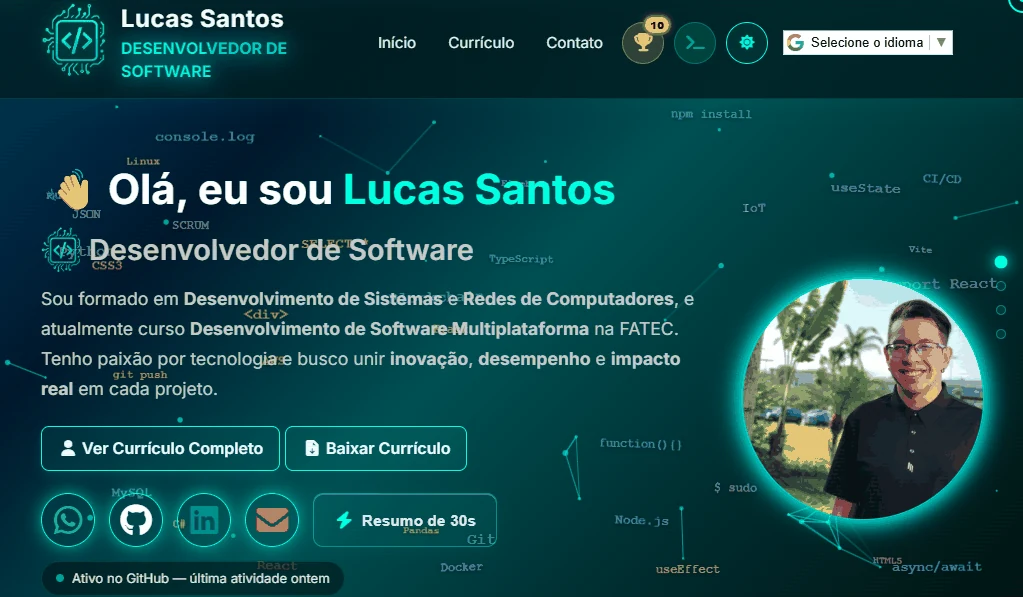
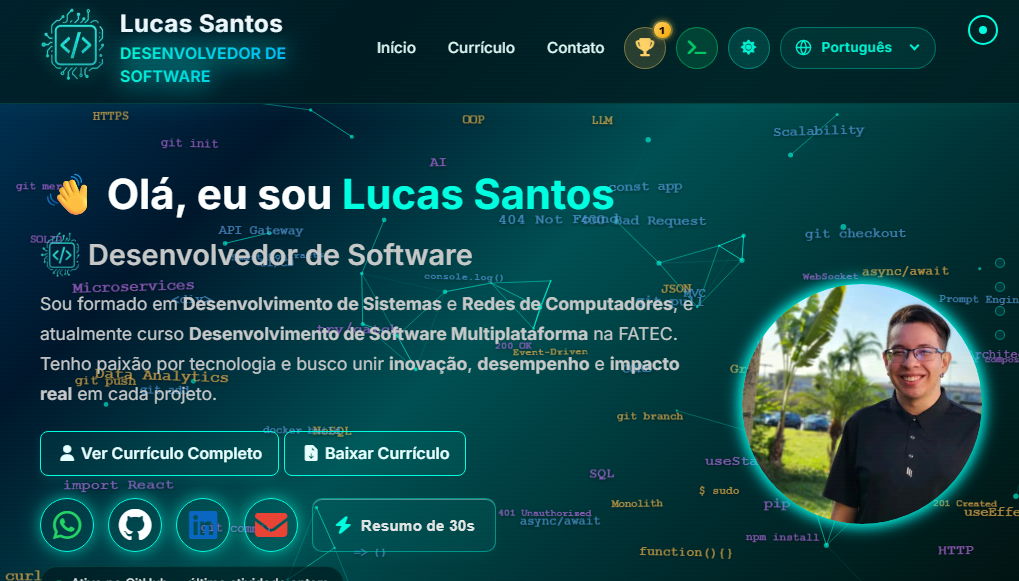
docs: atualização da documentação e adição de tecnologias

diff --git a/src/data/skills.ts b/src/data/skills.ts
@@ -192,6 +192,12 @@ export const skillCategories: SkillCategory[] = [
         logoColor: "white",
       },
       {
+        alt: "Gitleaks",
+        color: "181717",
+        logo: "gitleaks",
+        logoColor: "white",
+      },
+      {
         alt: "GitHub Actions",
         color: "2088FF",
         logo: "githubactions",
@@ -204,6 +210,20 @@ export const skillCategories: SkillCategory[] = [
         logoColor: "white",
       },
       { alt: "CodeQL", color: "181717", logo: "codeql", logoColor: "white" },
+      { alt: "zizmor", color: "181717", logo: "zizmor", logoColor: "white" },
+      {
+        alt: "OSV-Scanner",
+        color: "4285F4",
+        logo: "osv-scanner",
+        logoColor: "white",
+      },
+
+      {
+        alt: "OpenSSF Scorecard",
+        color: "1F6FEB",
+        logo: "openssf",
+        logoColor: "white",
+      },
     ],
   },
 
@@ -234,6 +254,7 @@ export const skillCategories: SkillCategory[] = [
         logo: "lighthouse",
         logoColor: "white",
       },
+      { alt: "Sonda", color: "7C3AED", logo: "sonda", logoColor: "white" },
     ],
   },
 
@@ -272,6 +293,33 @@ export const skillCategories: SkillCategory[] = [
         logoColor: "white",
       },
       { alt: "Fakeredis", color: "DC382D", logo: "redis", logoColor: "white" },
+      { alt: "Vitest", color: "6E9F18", logo: "vitest", logoColor: "white" },
+      {
+        alt: "Stylelint",
+        color: "263238",
+        logo: "stylelint",
+        logoColor: "white",
+      },
+      { alt: "Knip", color: "F56E0F", logo: "knip", logoColor: "white" },
+      { alt: "CSpell", color: "1A8CFF", logo: "cspell", logoColor: "white" },
+      {
+        alt: "axe-core",
+        color: "6A1B9A",
+        logo: "axe-core",
+        logoColor: "white",
+      },
+      {
+        alt: "size-limit",
+        color: "2B3137",
+        logo: "size-limit",
+        logoColor: "white",
+      },
+      {
+        alt: "Linkinator",
+        color: "0E7490",
+        logo: "linkinator",
+        logoColor: "white",
+      },
     ],
   },
 
@@ -317,6 +365,13 @@ export const skillCategories: SkillCategory[] = [
         alt: "GTranslate",
         color: "4285F4",
         logo: "googletranslate",
+        logoColor: "white",
+      },
+      { alt: "Husky", color: "3C3C3C", logo: "husky", logoColor: "white" },
+      {
+        alt: "lint-staged",
+        color: "2F855A",
+        logo: "lint-staged",
         logoColor: "white",
       },
     ],

diff --git a/src/lib/badges.ts b/src/lib/badges.ts
@@ -21,6 +21,17 @@ const FA_FALLBACK: Record<string, string> = {
   openai: "brands/openai",
   playwright: "solid/masks-theater",
   codeql: "solid/shield-halved",
+  cspell: "solid/spell-check",
+  "axe-core": "solid/universal-access",
+  "size-limit": "solid/weight-scale",
+  linkinator: "solid/link",
+  sonda: "solid/magnifying-glass-chart",
+  zizmor: "solid/magnifying-glass",
+  "osv-scanner": "solid/bug",
+  gitleaks: "solid/key",
+  openssf: "solid/award",
+  husky: "solid/dog",
+  "lint-staged": "solid/list-check",
 };
 
 const bySlug = new Map<string, string>();

diff --git a/README.md b/README.md
@@ -45,17 +45,19 @@ Sou formado em **Desenvolvimento de Sistemas e Redes de Computadores** e curso *
 
 ## 🔎 Projetos em destaque
 
-| Projeto              | O que é                                   |
-| -------------------- | ----------------------------------------- |
-| **Planet Spotter**   | NASA Space Apps Challenge                 |
-| **Janosys API**      | Projeto acadêmico, FATEC                  |
-| **Tempero da Casa**  | Cardápio digital                          |
-| **CodeWave**         | Site de empresa de tecnologia             |
-| **TaskMaster**       | Gerenciador de tarefas                    |
-| **Portfólio Gamer**  | Experiência interativa em RPG             |
-| **Aerocode**         | Sistema de gestão da produção aeronáutica |
-| **Vinícola Premium** | Experiência digital sofisticada           |
-| **Signa**            | Gestão de requisitos aeronáuticos         |
+| Projeto                     | O que é                                   |
+| --------------------------- | ----------------------------------------- |
+| **Planet Spotter**          | NASA Space Apps Challenge                 |
+| **Janosys API**             | Projeto acadêmico, FATEC                  |
+| **Tempero da Casa**         | Cardápio digital                          |
+| **CodeWave**                | Site de empresa de tecnologia             |
+| **TaskMaster**              | Gerenciador de tarefas                    |
+| **Portfólio Gamer**         | Experiência interativa em RPG             |
+| **Aerocode**                | Sistema de gestão da produção aeronáutica |
+| **Vinícola Premium**        | Experiência digital sofisticada           |
+| **Signa**                   | Gestão de requisitos aeronáuticos         |
+| **Mercado Livre**           | E-commerce com bancos poliglotas          |
+| **Calculadora de Matrizes** | Álgebra linear e computação científica    |
 
 <img src="https://raw.githubusercontent.com/tirolasca/tirolasca/main/assets/divider.svg" alt="" width="100%">
 
@@ -80,14 +82,14 @@ Clique em uma categoria para expandir.
 <details>
 <summary><b>🧪 Testes & Qualidade</b></summary>
 
-![Playwright](https://img.shields.io/badge/Playwright-2EAD33?style=for-the-badge&logo=playwright&logoColor=white) ![ESLint](https://img.shields.io/badge/ESLint-4B32C3?style=for-the-badge&logo=eslint&logoColor=white) ![Prettier](https://img.shields.io/badge/Prettier-F7B93E?style=for-the-badge&logo=prettier&logoColor=black) ![Lighthouse CI](https://img.shields.io/badge/Lighthouse%20CI-F44B21?style=for-the-badge&logo=lighthouse&logoColor=white) ![Vitest](https://img.shields.io/badge/Vitest-6E9F18?style=for-the-badge&logo=vitest&logoColor=white) ![Stylelint](https://img.shields.io/badge/Stylelint-263238?style=for-the-badge&logo=stylelint&logoColor=white) ![Knip](https://img.shields.io/badge/Knip-F56E0F?style=for-the-badge&logo=scissors&logoColor=white) ![CSpell](https://img.shields.io/badge/CSpell-1A8CFF?style=for-the-badge&logo=spellcheck&logoColor=white)
+![Playwright](https://img.shields.io/badge/Playwright-2EAD33?style=for-the-badge&logo=playwright&logoColor=white) ![ESLint](https://img.shields.io/badge/ESLint-4B32C3?style=for-the-badge&logo=eslint&logoColor=white) ![Prettier](https://img.shields.io/badge/Prettier-F7B93E?style=for-the-badge&logo=prettier&logoColor=black) ![Lighthouse CI](https://img.shields.io/badge/Lighthouse%20CI-F44B21?style=for-the-badge&logo=lighthouse&logoColor=white) ![Vitest](https://img.shields.io/badge/Vitest-6E9F18?style=for-the-badge&logo=vitest&logoColor=white) ![Stylelint](https://img.shields.io/badge/Stylelint-263238?style=for-the-badge&logo=stylelint&logoColor=white) ![Knip](https://img.shields.io/badge/Knip-F56E0F?style=for-the-badge&logo=scissors&logoColor=white) ![CSpell](https://img.shields.io/badge/CSpell-1A8CFF?style=for-the-badge&logo=spellcheck&logoColor=white) ![axe-core](https://img.shields.io/badge/axe--core-6A1B9A?style=for-the-badge&logoColor=white) ![size-limit](https://img.shields.io/badge/size--limit-2B3137?style=for-the-badge&logoColor=white) ![Linkinator](https://img.shields.io/badge/Linkinator-0E7490?style=for-the-badge&logoColor=white)
 
 </details>
 
 <details>
 <summary><b>☁ Deploy, CI & Segurança</b></summary>
 
-![Vercel](https://img.shields.io/badge/Vercel-000000?style=for-the-badge&logo=vercel&logoColor=white) ![GitHub Actions](https://img.shields.io/badge/GitHub%20Actions-2088FF?style=for-the-badge&logo=githubactions&logoColor=white) ![CodeQL](https://img.shields.io/badge/CodeQL-181717?style=for-the-badge&logo=github&logoColor=white) ![Dependabot](https://img.shields.io/badge/Dependabot-025E8C?style=for-the-badge&logo=dependabot&logoColor=white) ![zizmor](https://img.shields.io/badge/zizmor-181717?style=for-the-badge&logo=github&logoColor=white) ![OSV-Scanner](https://img.shields.io/badge/OSV--Scanner-4285F4?style=for-the-badge&logo=google&logoColor=white) ![Gitleaks](https://img.shields.io/badge/Gitleaks-181717?style=for-the-badge&logo=git&logoColor=white) ![OpenSSF Scorecard](https://img.shields.io/badge/OpenSSF%20Scorecard-1F6FEB?style=for-the-badge&logo=openssf&logoColor=white) ![Git](https://img.shields.io/badge/Git-F05033?style=for-the-badge&logo=git&logoColor=white)
+![Vercel](https://img.shields.io/badge/Vercel-000000?style=for-the-badge&logo=vercel&logoColor=white) ![GitHub Actions](https://img.shields.io/badge/GitHub%20Actions-2088FF?style=for-the-badge&logo=githubactions&logoColor=white) ![CodeQL](https://img.shields.io/badge/CodeQL-181717?style=for-the-badge&logo=github&logoColor=white) ![Dependabot](https://img.shields.io/badge/Dependabot-025E8C?style=for-the-badge&logo=dependabot&logoColor=white) ![zizmor](https://img.shields.io/badge/zizmor-181717?style=for-the-badge&logo=github&logoColor=white) ![OSV-Scanner](https://img.shields.io/badge/OSV--Scanner-4285F4?style=for-the-badge&logo=google&logoColor=white) ![Gitleaks](https://img.shields.io/badge/Gitleaks-181717?style=for-the-badge&logo=git&logoColor=white) ![OpenSSF Scorecard](https://img.shields.io/badge/OpenSSF%20Scorecard-1F6FEB?style=for-the-badge&logo=openssf&logoColor=white) ![Git](https://img.shields.io/badge/Git-F05033?style=for-the-badge&logo=git&logoColor=white) ![Husky](https://img.shields.io/badge/Husky-3C3C3C?style=for-the-badge&logoColor=white) ![lint-staged](https://img.shields.io/badge/lint--staged-2F855A?style=for-the-badge&logoColor=white)
 
 </details>
 
@@ -96,18 +98,18 @@ Clique em uma categoria para expandir.
 
 <br>
 
-| Camada             | Tecnologias                                                                                                                                                                                |
-| ------------------ | ------------------------------------------------------------------------------------------------------------------------------------------------------------------------------------------ |
-| **Framework**      | [Astro 7](https://astro.build) (site estático) · `build.format: "file"` mantém `/curriculo.html`                                                                                           |
-| **Linguagem**      | TypeScript 6 (`strict`) · Node.js ≥ 26.13                                                                                                                                                  |
-| **UI**             | CSS modular (36 módulos) · Swiper 14 (só Navigation/Autoplay) · Chart.js 4.6 (só o radar) · Font Awesome 7 (subconjunto gerado) · badges gerados no build (`badge-maker` + `simple-icons`) |
-| **Imagens**        | `astro:assets` (AVIF/WebP responsivos)                                                                                                                                                     |
-| **Formulário**     | [Formspree](https://formspree.io) via `PUBLIC_CONTACT_ENDPOINT` (sem a variável, abre o app de e-mail)                                                                                     |
-| **Qualidade**      | ESLint 10 + `typescript-eslint` + `eslint-plugin-astro` + `jsx-a11y` (a11y) · Prettier 3.10 · Stylelint 18 · CSpell 10 (PT-BR + EN) · Knip 6 · `astro check`                               |
-| **Testes**         | Vitest 5 + happy-dom (unitários e integridade dos dados) · Playwright 1.65 + axe (E2E e acessibilidade) · Lighthouse CI · Linkinator (links) · size-limit (orçamento de tamanho)           |
-| **CI / Segurança** | GitHub Actions (actions fixadas por SHA) · CodeQL · zizmor · OSV-Scanner · Gitleaks · OpenSSF Scorecard · Dependabot · Husky + lint-staged (hook de commit)                                |
-| **SEO / Métricas** | `@astrojs/sitemap` · canonical, Open Graph, Twitter Cards, JSON-LD · `web-vitals` 6 · Vercel Speed Insights                                                                                |
-| **Deploy**         | [Vercel](https://vercel.com)                                                                                                                                                               |
+| Camada             | Tecnologias                                                                                                                                                                                           |
+| ------------------ | ----------------------------------------------------------------------------------------------------------------------------------------------------------------------------------------------------- |
+| **Framework**      | [Astro 7](https://astro.build) (site estático) · `build.format: "file"` mantém `/curriculo.html`                                                                                                      |
+| **Linguagem**      | TypeScript 6 (`strict`) · Node.js ≥ 26.13                                                                                                                                                             |
+| **UI**             | CSS modular (36 módulos) · Swiper 14 (só Navigation/Autoplay) · Chart.js 4.6 (só o radar) · Font Awesome 7 (subconjunto gerado) · badges gerados no build (`badge-maker` + `simple-icons`)            |
+| **Imagens**        | `astro:assets` (AVIF/WebP responsivos)                                                                                                                                                                |
+| **Formulário**     | [Formspree](https://formspree.io) via `PUBLIC_CONTACT_ENDPOINT` (sem a variável, abre o app de e-mail)                                                                                                |
+| **Qualidade**      | ESLint 10 + `typescript-eslint` + `eslint-plugin-astro` + `jsx-a11y` (a11y) · Prettier 3.10 · Stylelint 18 · CSpell 10 (PT-BR + EN) · Knip 6 · `astro check`                                          |
+| **Testes**         | Vitest 5 + happy-dom (unitários e integridade dos dados) · Playwright 1.65 + axe (E2E e acessibilidade) · Lighthouse CI 0.16 (Lighthouse 13) · Linkinator (links) · size-limit (orçamento de tamanho) |
+| **CI / Segurança** | GitHub Actions (actions fixadas por SHA) · CodeQL · zizmor · OSV-Scanner · Gitleaks · OpenSSF Scorecard · Dependabot · Husky + lint-staged (hook de commit)                                           |
+| **SEO / Métricas** | `@astrojs/sitemap` · canonical, Open Graph, Twitter Cards, JSON-LD · `web-vitals` 6 · Vercel Speed Insights                                                                                           |
+| **Deploy**         | [Vercel](https://vercel.com)                                                                                                                                                                          |
 
 </details>
 
@@ -250,7 +252,7 @@ docs/                   preview, desempenho, segurança (CSP, GitHub) e configur
 - **Seletor de idioma personalizado**: o widget "Dropdown" do GTranslate gera um `<select class="gt_selector">`, que fica na página só como **motor** (invisível). A interface é um dropdown próprio (`features/language-switcher.ts` + `styles/components/language-switcher.css`) com só **PT / EN / ES** e navegação por teclado (padrão WAI-ARIA de listbox). Ao escolher, o código atribui o valor no `<select>` e dispara `change`, o que aciona a tradução. Para mudar os idiomas, edite `LANGS` no `.ts` e `languages` em `core/translate.ts`.
 - **`compressHTML: false`**: a compressão padrão do Astro remove espaços entre tags inline e cola ícones ao texto.
 - **CSS cortado em sequência, sem reordenar**: preserva a cascata do CSS original.
-- **Font Awesome em subconjunto**: 87 ícones custam ~10 KB; SVGs inline custariam ~38 KB (medição em [`docs/performance.md`](docs/performance.md)).
+- **Font Awesome em subconjunto**: 90 ícones custam ~11 KB; SVGs inline custariam ~38 KB (medição com 85 ícones em [`docs/performance.md`](docs/performance.md)).
 - **Chart.js só com o radar**: `chart.js/auto` registra todos os tipos de gráfico; o site registra apenas radar, escala radial, ponto, linha, _filler_ e tooltip (~21 % menor em gzip). Um teste unitário monta o gráfico e falha se faltar algum registro.
 - **Sonda pelo plugin do Vite**: o `sonda/astro` não dispara no Astro 7 (o hook de build só roda com `target: "server"`), então o relatório usa `sonda/vite`, ligado só com `npm run analyze`.
 - **Stylelint com teto de avisos**: o CSS legado tem avisos que não valem uma reescrita; `lint:css --max-warnings` impede que entrem novos e o teto só desce.

diff --git a/docs/performance.md b/docs/performance.md
@@ -34,7 +34,7 @@ Acessibilidade 96 → **100** · Boas práticas 96 · SEO **100**. JS/CSS/fontes
 | **Imagens**                    | `astro:assets`: AVIF + WebP responsivos com `srcset`. `planet.png` 2,9 MB → ~9–35 KB. QR Code do hero 132 KB → ~40 KB.                                                                                                                                |
 | **AOS → IntersectionObserver** | O site usava 4 efeitos (`fade-up/left/right`, `zoom-in`). Substituído por ~60 linhas (`core/reveal.ts`) + 30 de CSS, sem a dependência `aos` (JS + CSS). Só anima o que está abaixo da 1ª tela (não atrasa o LCP).                                    |
 | **CSS**                        | 45 → 22 KB gz: sem CSS do AOS/Swiper-bundle/Font Awesome inteiro, 13 regras mortas removidas. Swiper só com os módulos usados (Navigation, Autoplay).                                                                                                 |
-| **Ícones**                     | Font Awesome **subconjunto gerado** (`npm run icons`, automático no `dev`/`build`): 87 ícones, fontes 230 → ~10 KB, CSS ~100 → 5,8 KB.                                                                                                                |
+| **Ícones**                     | Font Awesome **subconjunto gerado** (`npm run icons`, automático no `dev`/`build`): 90 ícones, fontes 230 → ~11 KB, CSS ~100 → 5,9 KB.                                                                                                                |
 | **Layout shift**               | O toast de conquista animava `right` (gerava CLS 0,135); agora `transform`. Imagens com `width/height`; carrossel com layout equivalente antes de o Swiper carregar.                                                                                  |
 | **Contraste / tema**           | Tema escuro aplicado no `<head>` (antes havia um flash claro → escuro na 1ª visita). Cores de texto do tema claro com contraste AA. `html` com `background-color` real.                                                                               |
 | **Cache/headers**              | `vercel.json`: assets com hash `immutable`, cabeçalhos de segurança básicos.                                                                                                                                                                          |
@@ -58,7 +58,7 @@ Medido em laboratório (currículo, mobile simulado, ambiente de 1 núcleo, exec
 
 <br>
 
-Medido com 85 ícones (hoje são 87): SVGs inline somariam **~38 KB gz** (uma ocorrência de cada) contra **~10,7 KB** do subconjunto de fonte (fonte + CSS, em gzip). **Não compensa** migrar tudo. A migração gradual faz sentido só para poucos ícones críticos acima da dobra (se um dia o `font-display: block` incomodar). O gerador de subconjunto cobre o dia a dia: é só escrever a classe (`fa-solid fa-rocket`) no código.
+Medido com 85 ícones (hoje são 90): SVGs inline somariam **~38 KB gz** (uma ocorrência de cada) contra **~10,7 KB** do subconjunto de fonte (fonte + CSS, em gzip). **Não compensa** migrar tudo. A migração gradual faz sentido só para poucos ícones críticos acima da dobra (se um dia o `font-display: block` incomodar). O gerador de subconjunto cobre o dia a dia: é só escrever a classe (`fa-solid fa-rocket`) no código.
 
 </details>
 

diff --git a/docs/security.md b/docs/security.md
@@ -73,6 +73,9 @@ Todos os workflows usam permissões mínimas (`contents: read`, ampliadas só no
 | `dependabot.yml`  | npm (semanal, agrupado) e GitHub Actions (mensal, agrupado), com **espera de 7 dias** após o lançamento de cada versão (`cooldown`).                                |
 
 > [!NOTE]
+> O Lighthouse CI roda por `npx @lhci/cli@<versão>` com a versão fixada no `ci.yml`. O Dependabot não enxerga esse número, então ele precisa ser atualizado à mão (a versão 0.16 traz o Lighthouse 13, o mesmo usado nas medições de [`performance.md`](performance.md)).
+
+> [!NOTE]
 > A varredura completa do OSV-Scanner usa `fail-on-vuln: false`: uma vulnerabilidade em dependência transitiva sem correção disponível não deixa o `main` vermelho. Quem barra é o scan de PR.
 
 <img src="https://raw.githubusercontent.com/tirolasca/tirolasca/main/assets/divider.svg" alt="" width="100%">
